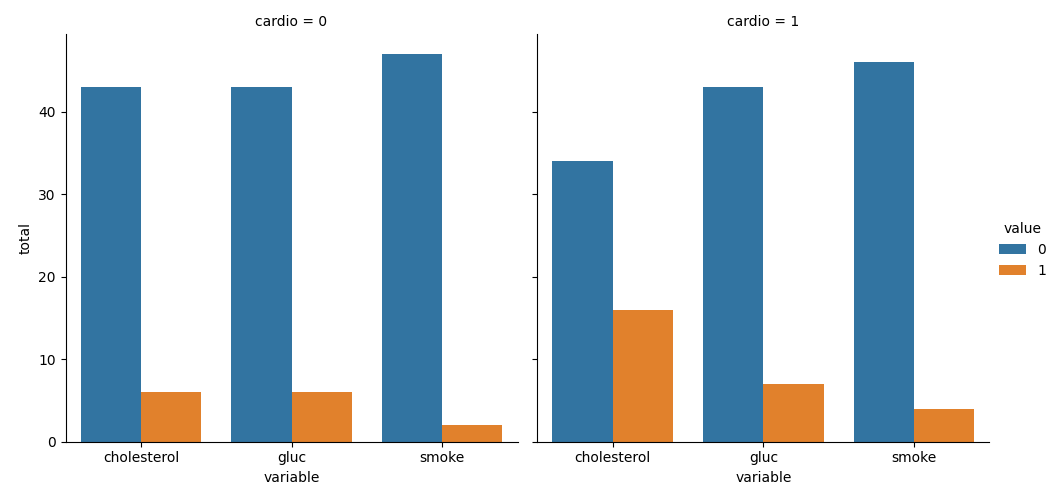
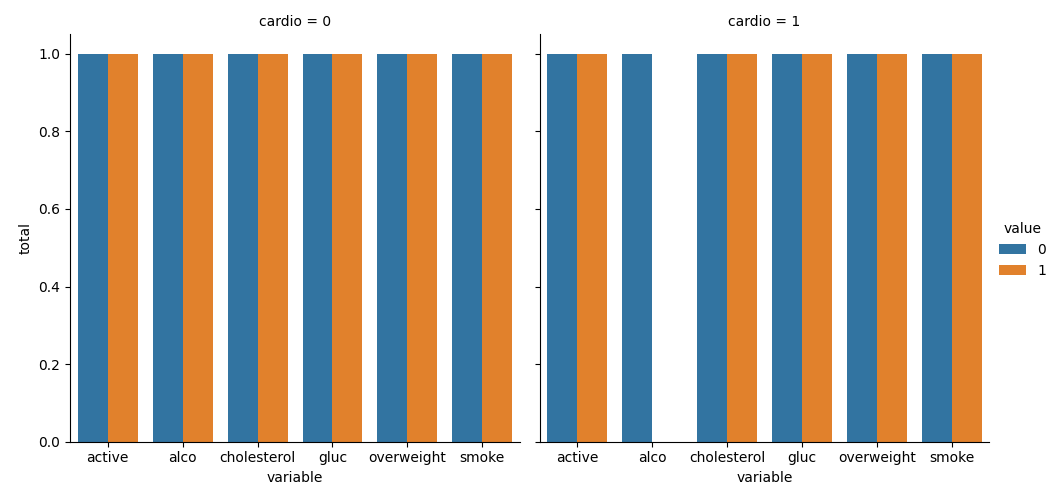
Medical_data_Visualizer : complete

diff --git a/Medical_Data_Visualizer/medical_data_visualizer.py b/Medical_Data_Visualizer/medical_data_visualizer.py
@@ -7,25 +7,42 @@ import numpy as np
 df = pd.read_csv('medical_examination.csv')
 
 # 2
-df['overweight'] =  (df['weight'] / ((df['height']/100) ** 2) > 25).astype(int)
+df['overweight'] = ((df['weight'] / (df['height']/100)**2) > 25 ).astype(int)
 
 # 3
-
+df['cholesterol'] = (df['cholesterol'] > 1).astype(int) 
+df['gluc'] = (df['gluc'] > 1).astype(int) 
 
 # 4
 def draw_cat_plot():
     # 5
-    df_cat = None
+    df_cat = pd.melt(
+        df,
+        id_vars = 'cardio',
+        value_vars = ['cholesterol','gluc','smoke','active','alco','overweight']
+    )
 
 
     # 6
-    df_cat = None
+    df_cat = df_cat.groupby(['cardio','variable','value']).size().reset_index(name='total')
     
 
     # 7
 
 
+
     # 8
+    fig = sns.catplot (
+        data = df_cat ,
+        x = 'variable',
+        col = 'cardio',
+        hue = 'value' ,
+        kind = 'count'
+
+    ).set(ylabel = 'total').fig
+
+
+    # 9
     fig.savefig('catplot.png')
     return fig
 
@@ -33,21 +50,33 @@ def draw_cat_plot():
 # 10
 def draw_heat_map():
     # 11
-    df_heat = None
+    df_heat = df[
+        (df['ap_lo'] <= df['ap_hi']) &
+        (df['height'] >= df['height'].quantile(0.025)) &
+        (df['height'] <= df['height'].quantile(0.975)) &
+        (df['weight'] >= df['weight'].quantile(0.025)) &
+        (df['weight'] <= df['weight'].quantile(0.975)) 
+    ]
 
     # 12
-    corr = None
+    corr = df_heat.corr()
 
     # 13
-    mask = None
+    mask = np.triu(corr)
 
 
 
     # 14
-    fig, ax = None
+    fig, ax = plt.subplots()
 
     # 15
-
+    sns.heatmap(
+        corr,
+        mask=mask,
+        annot=True,
+        fmt=".1f",
+        square=True,
+    )
 
 
     # 16

diff --git a/Medical_Data_Visualizer/test.py b/Medical_Data_Visualizer/test.py
@@ -7,34 +7,31 @@ import numpy as np
 df = pd.read_csv('medical_examination.csv')
 
 # 2
-df['overweight'] =  (df['weight'] / ((df['height']/100) ** 2) > 25).astype(int)
-
-
-
+df['overweight'] = ((df['weight'] / (df['height']/100)**2) > 25 ).astype(int)
 
 # 3
 df['cholesterol'] = (df['cholesterol'] > 1).astype(int) 
 df['gluc'] = (df['gluc'] > 1).astype(int) 
-
-
 
 # 4
 def draw_cat_plot():
     # 5
     df_cat = pd.melt(
         df,
-        id_vars = ['cardio'],
+        id_vars = 'cardio',
         value_vars = ['cholesterol','gluc','smoke','active','alco','overweight']
     )
 
-    print(f"ssss\n{df_cat}")
+
     # 6
-    df_cat = df_cat.groupby(['cardio', 'variable', 'value']).size().reset_index(name='total')
-    print(f"ffff\n{df_cat}")
-    
+    df_cat = df_cat.groupby(['cardio','variable','value']).size().reset_index(name='total')
     
 
     # 7
+
+
+
+    # 8
     fig = sns.catplot (
         data = df_cat ,
         x = 'variable',
@@ -45,12 +42,6 @@ def draw_cat_plot():
     ).set(ylabel = 'total').fig
 
 
-    # 9
-    fig.savefig('catplot.png')
-    return fig
-    
-    print(f"ssssss{type(fig)}")
-    
     # 9
     fig.savefig('catplot.png')
     return fig
